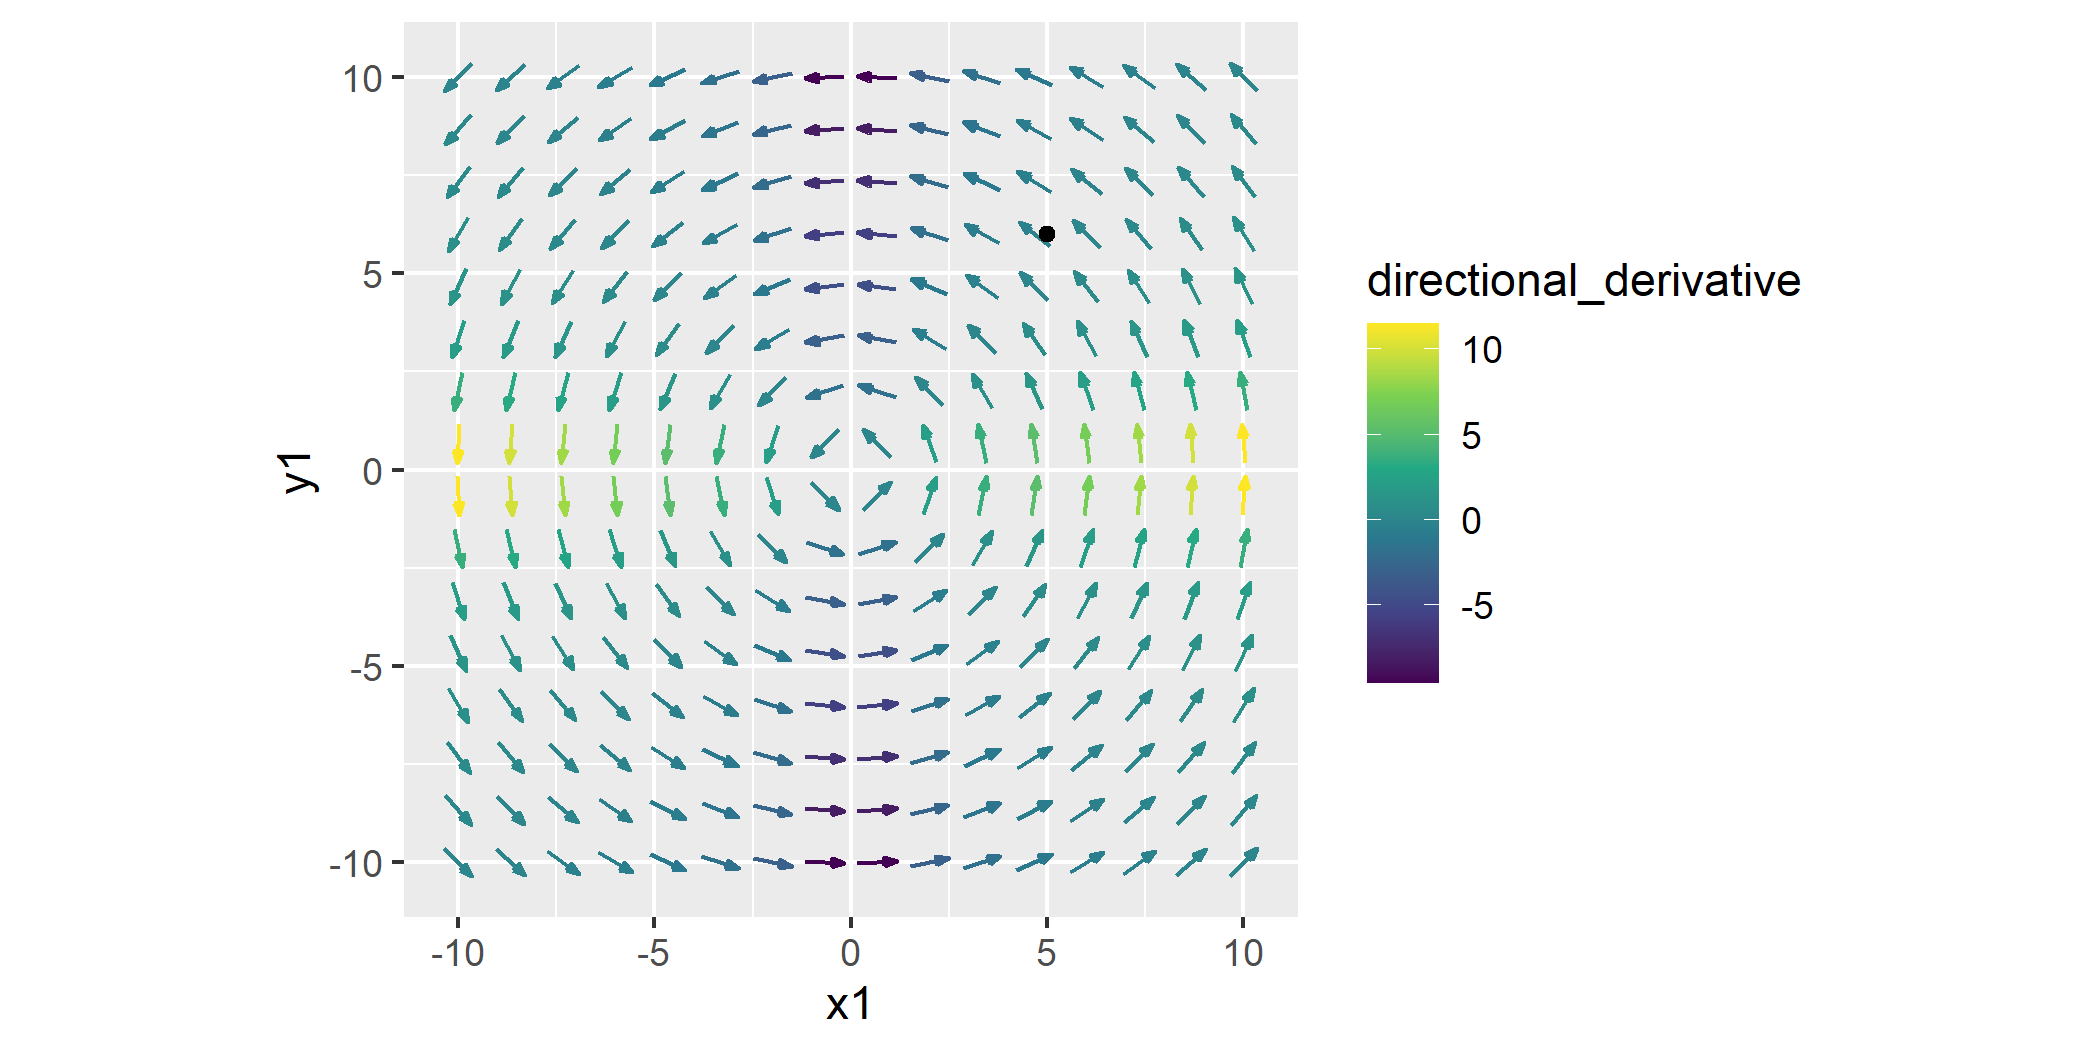
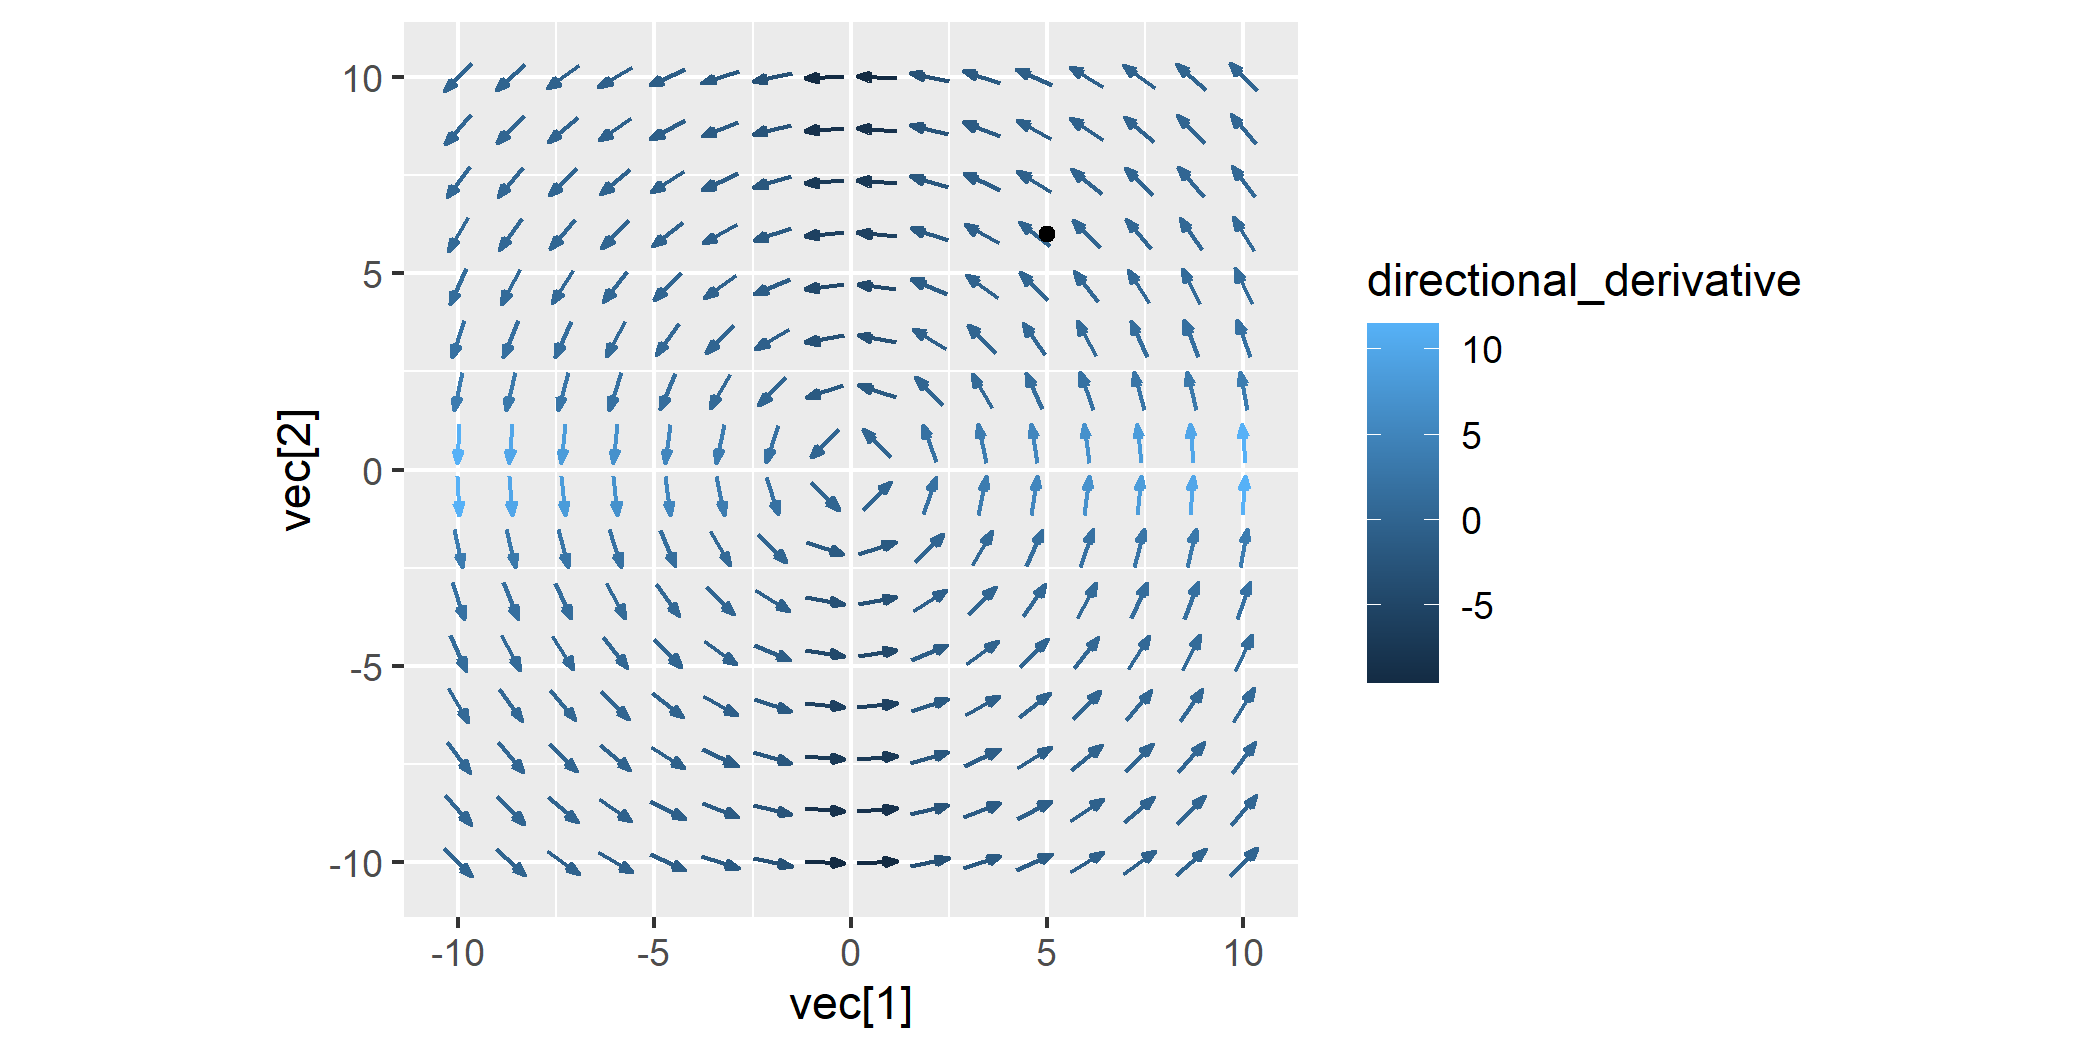
edit curl, replace directional derivative, add in new function for laplacian, fix input for directional derivative

diff --git a/README.md b/README.md
@@ -11,6 +11,7 @@ numbers, and soon dual numbers and more.
 ``` r
 library("ggvfields")
 #> Loading required package: ggplot2
+options(ggplot2.continuous.colur="viridis")
 ```
 
 ## Usage
@@ -95,7 +96,7 @@ $$
 \text{curl} \, \mathbf{F} = \frac{\partial \mathbf{F}_y}{\partial x} - \frac{\partial \mathbf{F}_x}{\partial y}
 $$
 
-To visualize the magnitude of the curl:
+To visualize the the curl:
 
 ``` r
 ggplot() +
@@ -129,13 +130,20 @@ $$
 This results in a scalar value that describes how the vector field
 spreads out or compresses at different points in the field.
 
-To visualize the Laplace operator of the vector field:
+To visualize the Laplace operator of the vector field, lets look at a
+different vector field:
 
 ``` r
+g <- function(v) {
+  x <- v[1]
+  y <- v[2]
+  c(-sin(y), cos(x))
+}
+
 ggplot() +
   geom_vector_field(
-    aes(color = after_stat(laplacian)), 
-    fun = f, xlim = c(-10, 10), ylim = c(-10, 10)
+    aes(color = after_stat(laplacian)), n = 20,
+    fun = g, xlim = c(-2*pi, 2*pi), ylim = c(-2*pi, 2*pi)
   ) +
   coord_fixed()
 ```
@@ -164,16 +172,14 @@ of the field in the direction specified by $\mathbf{v}$.
 To visualize the Laplace operator of the vector field:
 
 ``` r
-x1 <- 5
-y1 <- 6
+vec <- c(5, 6)
 
 ggplot() +
   geom_vector_field(
     aes(color = after_stat(directional_derivative)),
     fun = f, xlim = c(-10, 10), ylim = c(-10, 10),
-    u = x1, v = y1) +
-  geom_point(aes(x = x1, y = y1)) +
-  scale_color_viridis_c() +
+    v = vec) +
+  geom_point(aes(x = vec[1], y = vec[2])) +
   coord_fixed()
 ```
 
@@ -221,5 +227,8 @@ devtools::install_github("dusty-turner/ggvfields")
 
 ## Related projects
 
-**ggvfields** is similar to
-[**ggquiver**](http://pkg.mitchelloharawild.com/ggquiver/).
+For creating vector fields, the
+[**ggquiver**](http://pkg.mitchelloharawild.com/ggquiver/) package
+provides quiver plots to visualize vector fields, while the
+[**ggarchery**](https://github.com/mdhall272/ggarchery) package can
+handling of segments with arrowheads.
